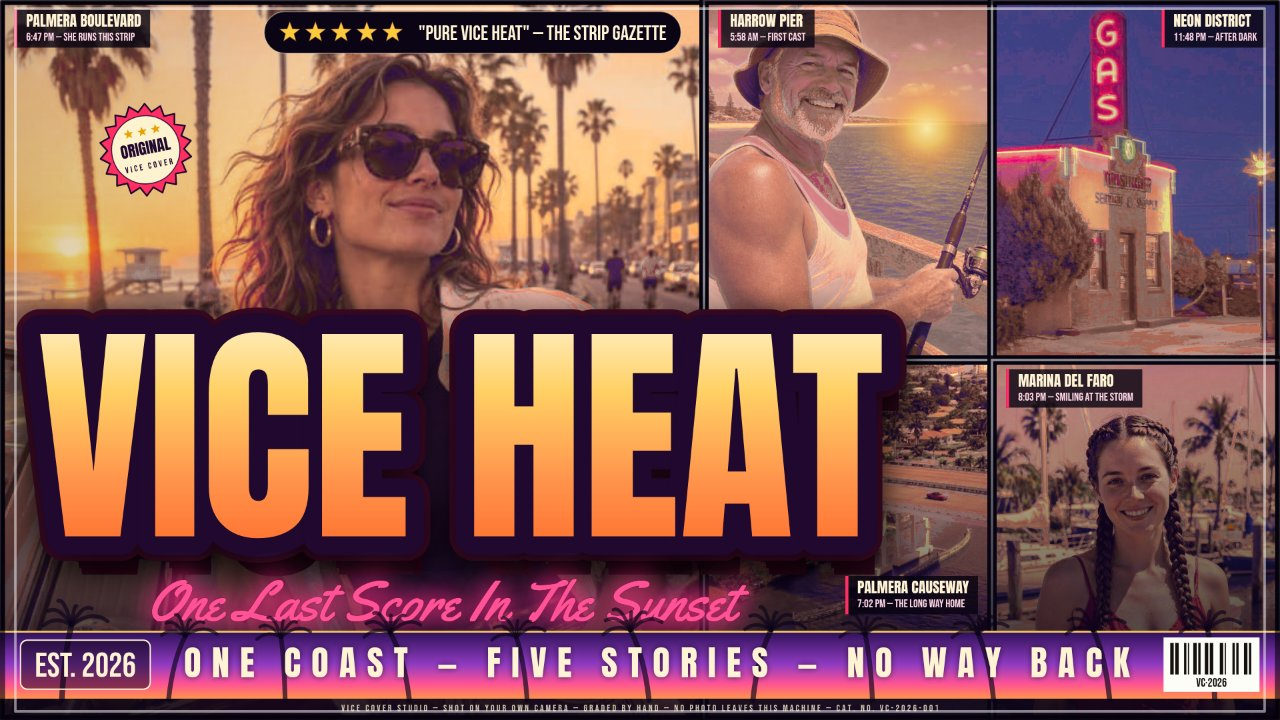
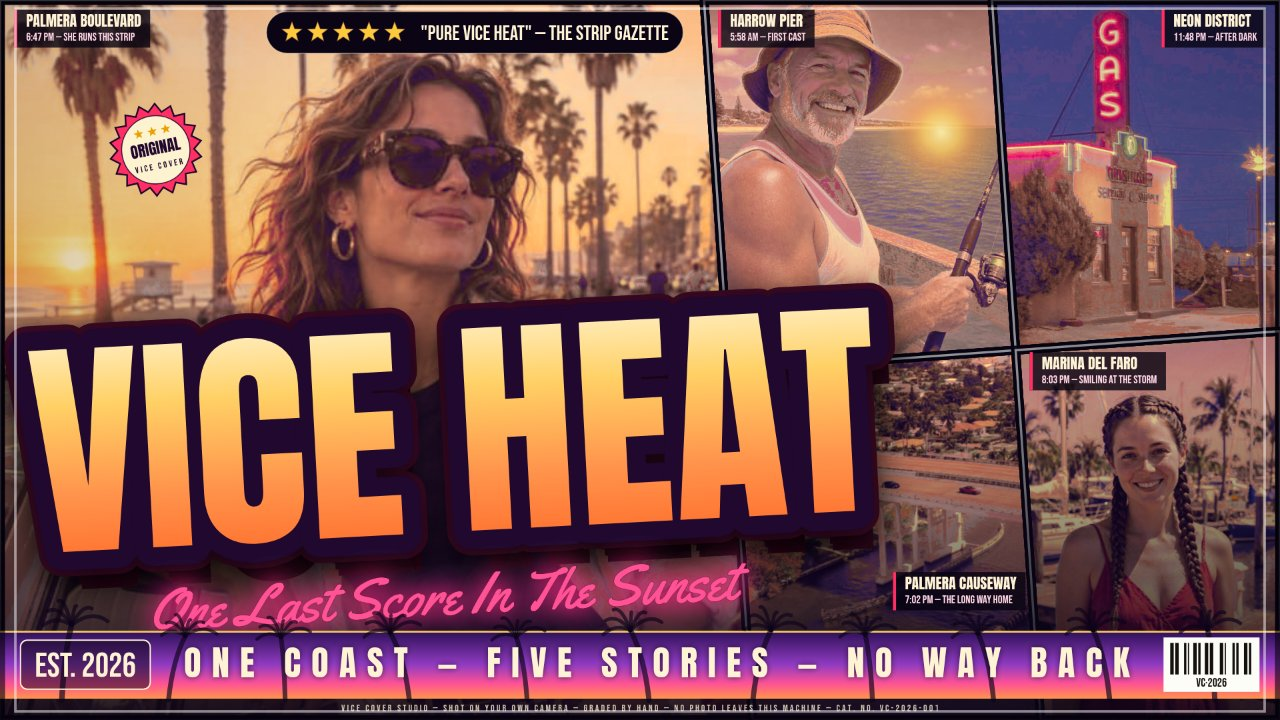
Round 19: diagonal-cut grid and a slanted, integrated title

diff --git a/app/src/poster.js b/app/src/poster.js
@@ -363,24 +363,64 @@ function gridShapes(w, h) {
     poly: [[x, y], [x + pw, y], [x + pw, y + ph], [x, y + ph]],
   });
   if (w > h) {
-    // Landscape: hero on the left (~55% wide, full height), 2x2 satellites
-    // right. The satellite CELLS are listed in panel order — pier top-left,
-    // causeway bottom-left, neon top-right, marina bottom-right (round 13):
-    // the dressed lettering band strides across the hero and the LEFT
-    // satellite column only, so the top-right cell is the one satellite the
-    // band never reaches — that is where the neon street lives now, because
-    // a signage scene has to be read whole or it is dead weight behind the
-    // title. The causeway — pure scenery, a road and palms — takes the
-    // bottom-left cell in the band's path instead: scenery tolerates the
-    // letters the way the winning covers' backdrop panels do. Panel order
-    // itself (and with it the caption chips, the seal's panel and the sun's
-    // panel) is exactly what it was; only two cells traded places.
+    // Landscape (round 19): the hero plus a 2x2 satellite block, cut on
+    // the diagonal the way the winning covers cut theirs. Both vertical
+    // dividers lean right as they fall (the Trio family's lean, ~4
+    // degrees), and the satellite row divider RISES to the right at the
+    // same ~4 degrees the slanted title climbs (see drawPoster), so the
+    // five panels interlock as parallelograms that lean into the
+    // lettering instead of sitting in a rigid rectangular grid under a
+    // slab. The panels still tile the canvas exactly — every internal
+    // edge is shared by its two neighbours, no gaps, no overlaps — so
+    // the sky base never shows through a corner. Panel order is
+    // unchanged (hero, pier, causeway, neon, marina — the round-13
+    // assignment: the neon scene top-right where the band never
+    // reaches, the causeway bottom-left in the band's path), and each
+    // shape's x/y/w/h is its polygon's bounding box — the convention
+    // the Trio shapes already use — so photo framing, the caption
+    // chips and the sun anchor keep working off the box while the clip
+    // (and the gutter stroke) follows the polygon. The row divider
+    // also hands the bottom row the taller half of the block (it
+    // crosses the hero's edge at 0.515 of the height and the right
+    // edge at 0.46): the causeway reads as a full panel beside and
+    // below the title band now, not a strip behind it.
+    const lean = w * 0.038;
     const mw = w * 0.55;
     const cw = (w - mw) / 2;
-    const ch = h / 2;
-    return [rect(0, 0, mw, h, true),
-      rect(mw, 0, cw, ch), rect(mw, ch, cw, ch),
-      rect(mw + cw, 0, cw, ch), rect(mw + cw, ch, cw, ch)];
+    // The row divider is the straight line from A (on the hero's right
+    // edge, 0.515 down) to B (on the canvas' right edge, 0.46 down);
+    // its crossings with the two slanted dividers fix the satellites'
+    // shared corners.
+    const ax = mw + lean * 0.515;
+    const ay = h * 0.515;
+    const bx = w;
+    const by = h * 0.46;
+    const k = (by - ay) / (bx - ax);
+    // Where the vertical divider whose top sits at x0 crosses the row
+    // divider: x = x0 + lean*t, y = t*h lies on the row line.
+    const cross = (x0) => {
+      const t = (ay + k * (x0 - ax)) / (h - k * lean);
+      return [x0 + lean * t, t * h];
+    };
+    const aPt = cross(mw);
+    const pPt = cross(mw + cw);
+    const shape = (poly, main, chipLow) => {
+      const xs = poly.map((p) => p[0]);
+      const ys = poly.map((p) => p[1]);
+      const x = Math.min(...xs);
+      const y = Math.min(...ys);
+      return {
+        x, y, w: Math.max(...xs) - x, h: Math.max(...ys) - y,
+        main: !!main, chipLow: !!chipLow, poly,
+      };
+    };
+    return [
+      shape([[0, 0], [mw, 0], [mw + lean, h], [0, h]], true),
+      shape([[mw, 0], [mw + cw, 0], pPt, aPt]),
+      shape([aPt, pPt, [mw + cw + lean, h], [mw + lean, h]], false, true),
+      shape([[mw + cw, 0], [w, 0], [w, by], pPt]),
+      shape([pPt, [w, by], [w, h], [mw + cw + lean, h]]),
+    ];
   }
   if (w < h) {
     // Portrait: hero on top (~52% high), 2x2 satellites below.
@@ -423,6 +463,41 @@ function tracePoly(ctx, poly) {
   ctx.moveTo(poly[0][0], poly[0][1]);
   for (let i = 1; i < poly.length; i++) ctx.lineTo(poly[i][0], poly[i][1]);
   ctx.closePath();
+}
+
+/** Where a vertical line at x crosses a panel polygon's outline: the
+ *  topmost and bottommost crossing y, or null when the line misses the
+ *  polygon. Round 19's slanted Grid panels use these to keep the
+ *  caption chips inside their own panel; for a plain rectangle the
+ *  spans are exactly the shape's own edges, so every older layout is
+ *  untouched by the clamps built on them. */
+function polySpanAtX(poly, x) {
+  let top = null;
+  let bot = null;
+  for (let i = 0; i < poly.length; i++) {
+    const [x1, y1] = poly[i];
+    const [x2, y2] = poly[(i + 1) % poly.length];
+    if (x1 === x2 || x < Math.min(x1, x2) || x > Math.max(x1, x2)) continue;
+    const y = y1 + ((y2 - y1) * (x - x1)) / (x2 - x1);
+    if (top === null || y < top) top = y;
+    if (bot === null || y > bot) bot = y;
+  }
+  return top === null ? null : { top, bot };
+}
+
+/** The same for a horizontal line at y: leftmost and rightmost x. */
+function polySpanAtY(poly, y) {
+  let left = null;
+  let right = null;
+  for (let i = 0; i < poly.length; i++) {
+    const [x1, y1] = poly[i];
+    const [x2, y2] = poly[(i + 1) % poly.length];
+    if (y1 === y2 || y < Math.min(y1, y2) || y > Math.max(y1, y2)) continue;
+    const x = x1 + ((x2 - x1) * (y - y1)) / (y2 - y1);
+    if (left === null || x < left) left = x;
+    if (right === null || x > right) right = x;
+  }
+  return left === null ? null : { left, right };
 }
 
 /** The photo assignment for panel i: panels beyond the loaded list rotate
@@ -1741,19 +1816,40 @@ function drawPanelChips(ctx, shapes, w, h) {
     // sits inside the title band, where a chip would print across the
     // letters, so its chip drops to the panel's lower right instead —
     // the strip beside the script's tail, above the banner, over the
-    // road in the scene. The geometry test (same left edge as the
-    // panel above it, lower top edge) picks that one cell out in any
-    // aspect; portrait and square Grids keep the plain top-left rule.
-    const buried = w > h && shapes[1] && i > 1
-      && shapes[i].x === shapes[1].x && shapes[i].y > shapes[1].y;
-    const x = i === 3
+    // road in the scene. gridShapes flags that one cell `chipLow`;
+    // portrait and square Grids flag nothing and keep the plain
+    // top-left rule.
+    const buried = w > h && !!shapes[i].chipLow;
+    let x = i === 3
       ? shapes[i].x + shapes[i].w - chipW - w * 0.011
       : (buried
         ? shapes[i].x + shapes[i].w - chipW - w * 0.011
         : shapes[i].x + w * 0.011);
-    const y = buried
+    let y = buried
       ? shapes[i].y + shapes[i].h * 0.6
       : shapes[i].y + h * 0.013;
+    // Round 19: the landscape Grid's panels are parallelograms now, so
+    // a chip parked off the bounding box can hang over a slanted edge
+    // onto the neighbouring panel (the marina cell's top-left corner
+    // sits above its own top edge, over the neon cell). Clamp the chip
+    // inside its own polygon: its top must clear the panel's top edge
+    // at both of the chip's x positions, a right-parked chip must
+    // clear the right edge at both of its y positions, and the buried
+    // chip must also clear the bottom edge. For rectangular panels
+    // every span is the shape's own edge and the clamps are no-ops.
+    const mX = w * 0.004;
+    const mY = h * 0.004;
+    const spanL = polySpanAtX(shapes[i].poly, x);
+    const spanR = polySpanAtX(shapes[i].poly, x + chipW);
+    if (spanL) y = Math.max(y, spanL.top + mY);
+    if (spanR) y = Math.max(y, spanR.top + mY);
+    if (i === 3 || buried) {
+      const spanT = polySpanAtY(shapes[i].poly, y);
+      const spanB = polySpanAtY(shapes[i].poly, y + chipH);
+      if (spanT) x = Math.min(x, spanT.right - chipW - mX);
+      if (spanB) x = Math.min(x, spanB.right - chipW - mX);
+    }
+    if (buried && spanR) y = Math.min(y, spanR.bot - chipH - mY);
     ctx.fillStyle = 'rgba(8, 4, 18, 0.8)';
     ctx.fillRect(x, y, chipW, chipH);
     ctx.fillStyle = '#ff2e63';
@@ -1958,8 +2054,14 @@ function drawDressing(ctx, w, h, state, shapes, titleBox) {
       // leaves 6.0%) — crowns, trunks and her hair cross every
       // placement. So this pill alone is filled OPAQUE: the crowns
       // behind it stay behind it, and nothing silhouettes through
-      // its body the way the translucent fill let them.
-      drawRatingRow(ctx, w, h, h * 0.045, { right: shapes[0].x + shapes[0].w - w * 0.018, opaque: true });
+      // its body the way the translucent fill let them. Round 19: the
+      // pill's right anchor is the hero polygon's own right edge at
+      // the pill's height, not the bounding box's — the box reaches
+      // 0.038w past the slanted edge at the foot of the panel, and a
+      // pill parked off the box would stride across the gutter onto
+      // the fisherman's corner.
+      const heroSpan = polySpanAtY(shapes[0].poly, h * 0.045);
+      drawRatingRow(ctx, w, h, h * 0.045, { right: (heroSpan ? heroSpan.right : shapes[0].x + shapes[0].w) - w * 0.018, opaque: true });
     } else {
       const cy = titleBox
         ? titleBox.baseline - titleBox.size - h * 0.042
@@ -2205,6 +2307,7 @@ export function drawPoster(canvas, state) {
   // Lettering: gradient title with a double outline, neon script tagline.
   const title = (state.title || '').trim().toUpperCase();
   let titleBox = null;
+  let slantOn = false;
   if (mosaic) {
     // In the band: the title is sized to the band's height and the pair
     // (title + tagline) is centred inside the strip — no scrim over the
@@ -2252,8 +2355,30 @@ export function drawPoster(canvas, state) {
       const size = bandTitle
         ? fitFont(ctx, title, w * 0.665, h * 0.34, 'Anton, "Arial Black", sans-serif')
         : fitFont(ctx, title, heroCx != null ? w * 0.64 : w * 0.94, h * 0.17, 'Anton, "Arial Black", sans-serif');
+      // Round 19: the band title SLANTS with the rebuilt grid. The
+      // whole lettering block — title and script, rotated as one rigid
+      // piece about a pivot between them — climbs 3 degrees to the
+      // right: the direction the satellite block's row divider climbs
+      // and the winning covers' titles climb, so the letters read as
+      // part of the collage, overlapping panel edges, instead of a
+      // flat slab laid across it. Fit, centre and width are the flat
+      // band's own (the rotation costs a cos(3°) sliver of projected
+      // width, still well past three-fifths of the frame); the
+      // extrusion rotates with the glyphs, as a real block of letters
+      // would. The block also rides a touch higher than the flat band
+      // did (baseline 0.738, script 0.852): rotation drops the
+      // script's left tail by ~0.02h, and the lift keeps that tail
+      // clear of the banner strip's top edge while the title's rising
+      // right end uncovers more of the causeway panel beneath it.
+      if (bandTitle) {
+        ctx.save();
+        ctx.translate(w * 0.36, h * 0.8);
+        ctx.rotate(-0.052);
+        ctx.translate(-w * 0.36, -h * 0.8);
+        slantOn = true;
+      }
       titleBox = drawTitle(ctx, w, title, noir, size,
-        bandTitle ? h * 0.745 : (dressed ? h * 0.752 : h * 0.865),
+        bandTitle ? h * 0.738 : (dressed ? h * 0.752 : h * 0.865),
         { cx: bandTitle ? w * 0.36 : (heroCx ?? w / 2), stops: grade.titleStops, rim: grade.titleRim, depth: grade.titleDepth });
       titleBox.band = bandTitle;
     }
@@ -2277,9 +2402,12 @@ export function drawPoster(canvas, state) {
     // only the car's zone and her belt line below them.
     drawTagline(ctx, w, h, tag, noir, titleBox,
       titleBox && titleBox.band
-        ? { cx: w * 0.345, maxW: w * 0.46, start: titleBox.size * 0.42, baseline: h * 0.862 }
+        ? { cx: w * 0.345, maxW: w * 0.46, start: titleBox.size * 0.42, baseline: h * 0.852 }
         : (heroTagged ? { cx: titleBox.cx, maxW: w * 0.52 } : {}));
   }
+  // The slanted band's rotation ends with the script: the dressing
+  // and the frame that follow are drawn level, as they always were.
+  if (slantOn) ctx.restore();
 
   // Poster dressing: seal, rating row, panel chips, banner strip and
   // microtext — drawn over the lettering, under the frame.
